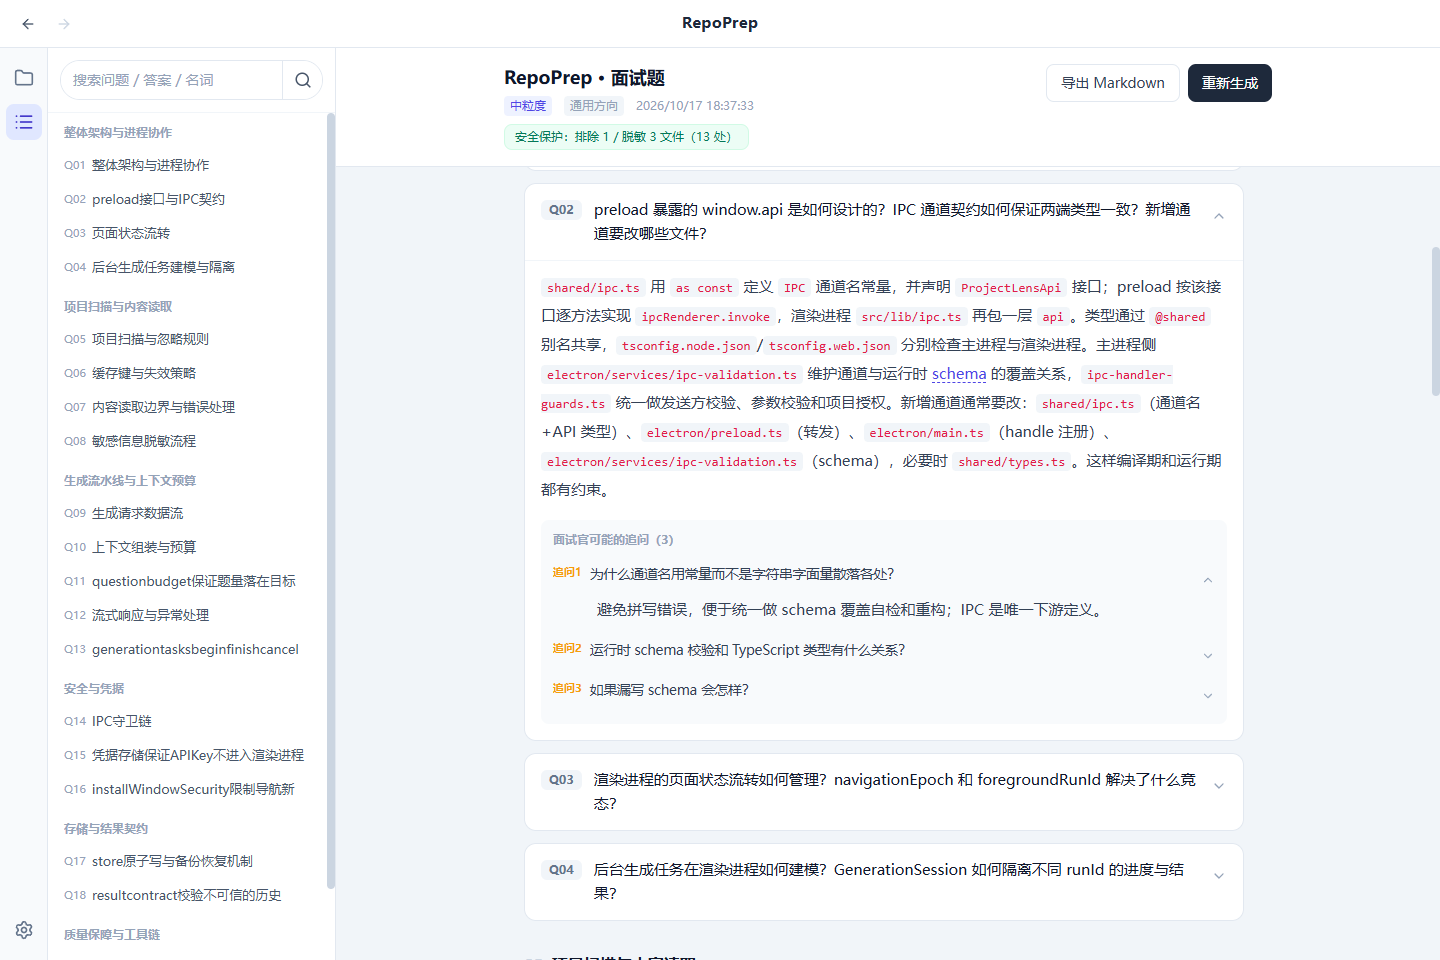
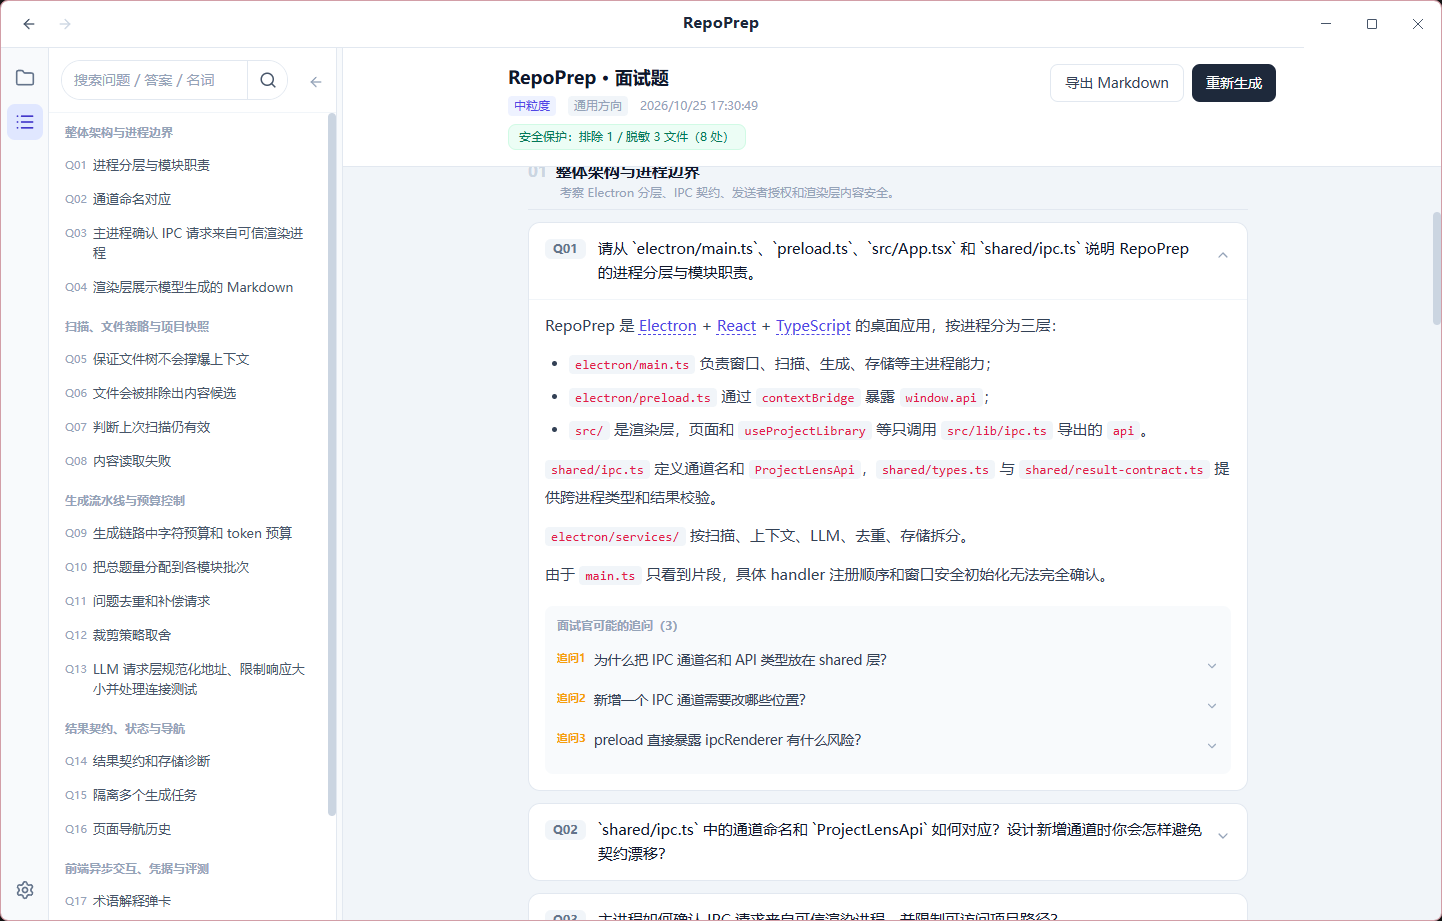
Update README demos with current app screenshots

diff --git a/README.md b/README.md
@@ -43,7 +43,21 @@ npm run dev
 
 ### 专业名词解释
 
+点击正文中的专业名词，可查看本地术语表解释。
+
 ![术语解释弹卡](docs/images/term-popover.png)
+
+### 划词向 AI 提问
+
+选中正文片段后，可选择「向 AI 提问」。
+
+![选中文本后显示向 AI 提问操作条](docs/images/selection-ask-ai.png)
+
+### 结合项目的 AI 解释
+
+右侧解释栏展示结合项目内容的 AI 说明，原文仍可对照阅读。
+
+![右侧 AI 解释栏与原文对照](docs/images/ai-explain-sidebar.png)
 
 ## 更多说明
 
